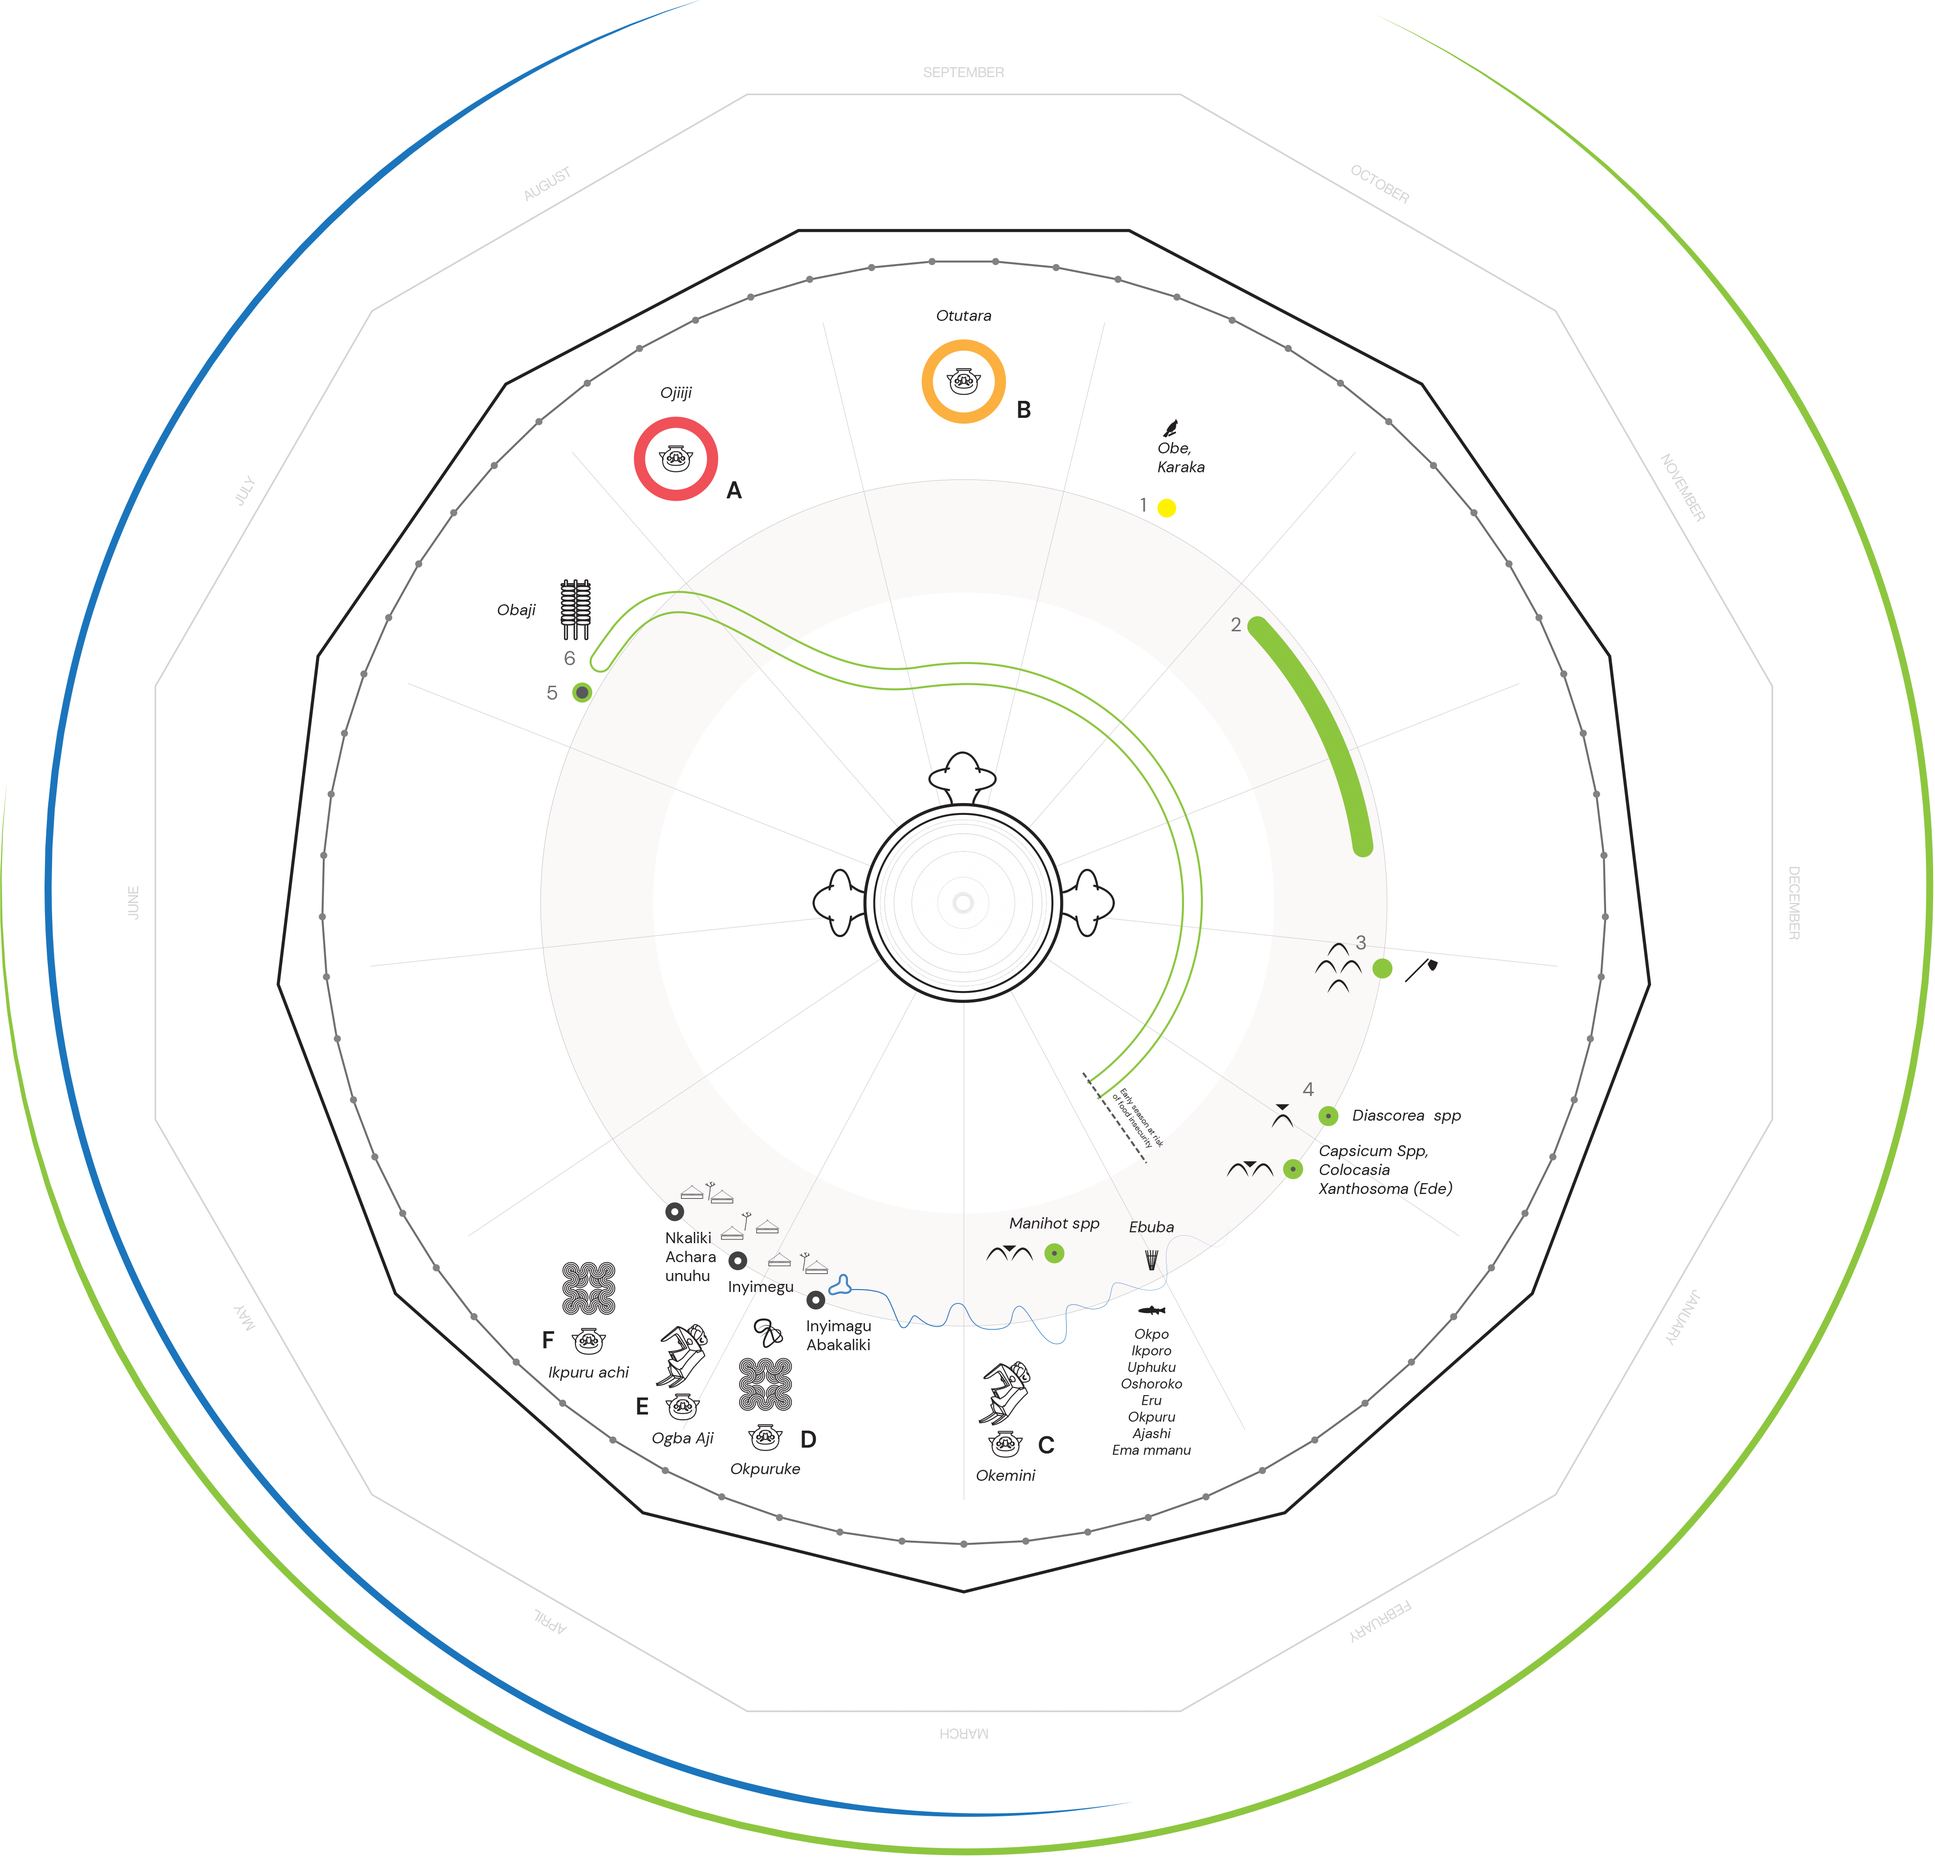
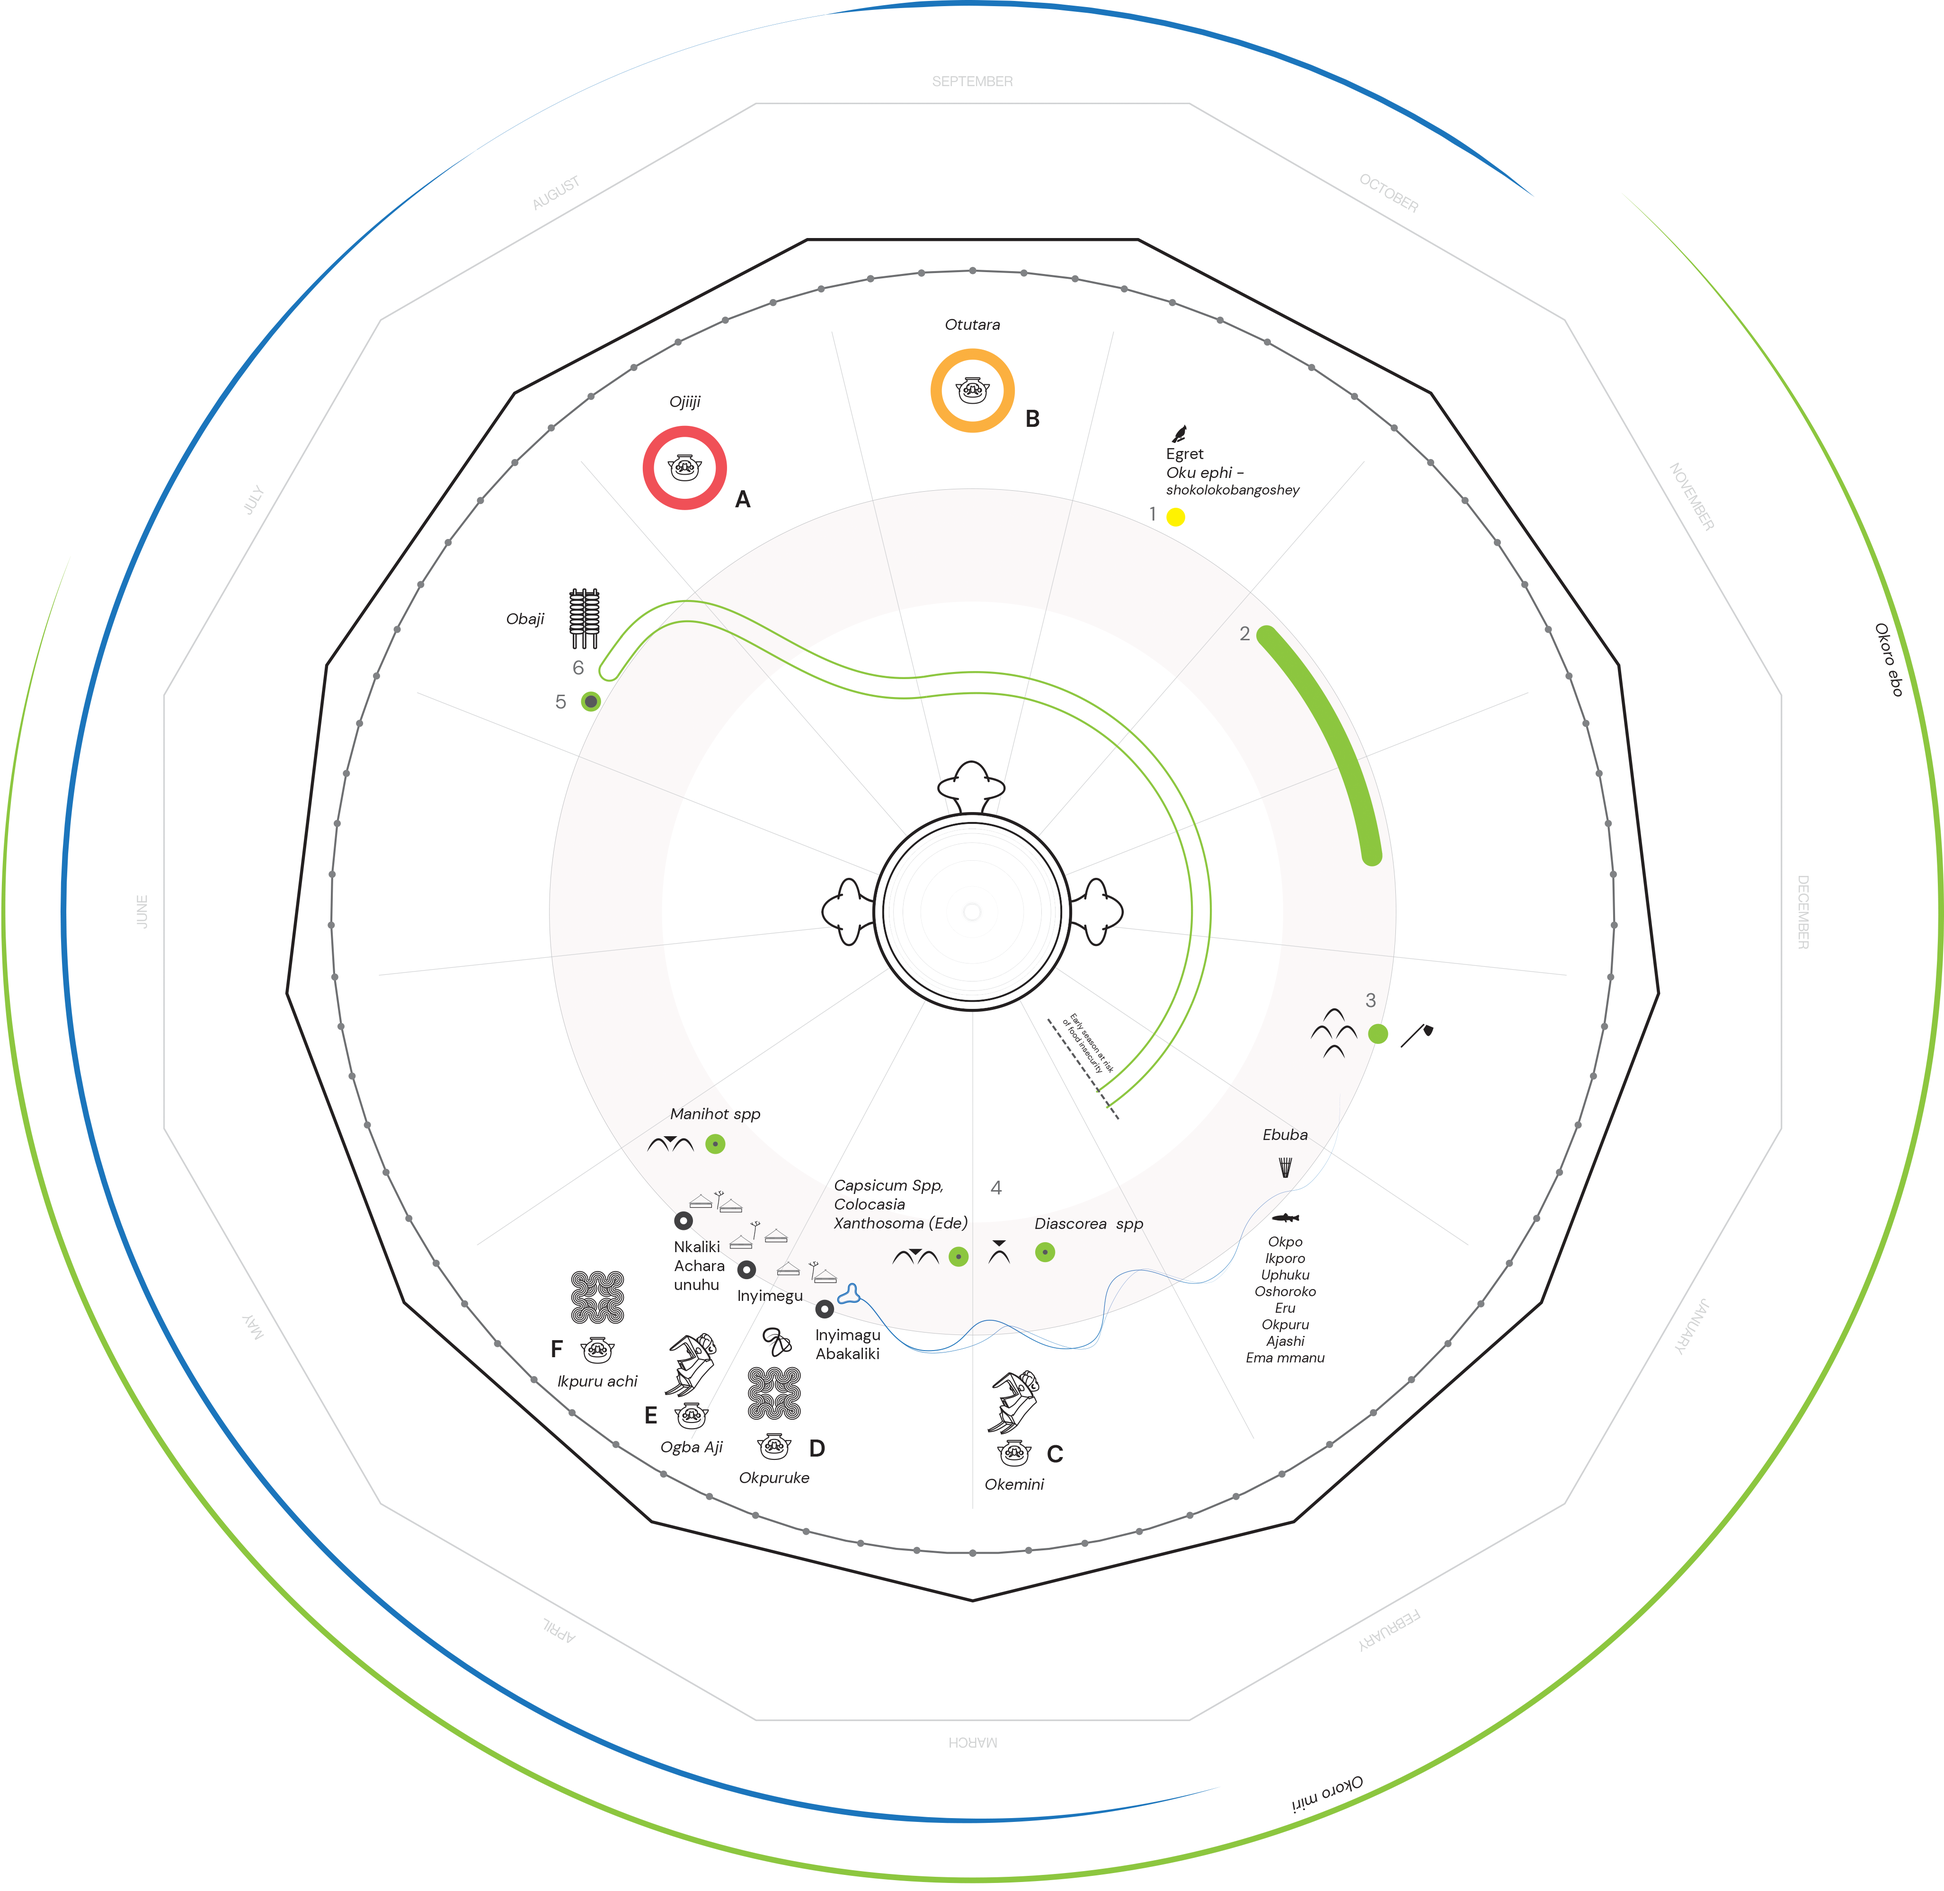
Update external contribution calendar + SEO

diff --git a/src/pages/Otutara.js b/src/pages/Otutara.js
@@ -24,7 +24,7 @@ class Otutara extends Component {
         super(props);
         this.state = {
             value: {
-                scale: .15,
+                scale: .25,
                 translation: { x: 100, y: 50 }
             }
         };
@@ -53,7 +53,7 @@ class Otutara extends Component {
                                     <b>LEGEND</b>
                                 </AccordionSummary><hr />
                                 <AccordionDetails className="Ojiijicss">
-                                The ceremony of the Otutara festival is used to invoke the blessings of the ancestors and parents of the living members of the family.<br /><br /><br />
+                                The ceremony of the Otutara festival is used to invoke the blessings of the ancestors and parents of the living members of the family. Otutara is done twice in year.<br />The first one called the lesser Otutara is done between March and April and it is known as the <i>utara onanwu</i>. It is more of an immediate family affair.<br />The main Otutara is done in September and is mainly a two day event. The feeding and slaughter of animals to feed late father and mother and ancestors is done on the first day while the second day is more of festival and merriment where masquerades are displayed, cooking competition and recognition of best cook.<br /><br /><br />
                                     1. Otuara is celebrated on <i>Nkwegu</i> market day (4th day of the week), after the new moon is sighted.<br />The eldest member of the family conducts the rites and prayers on behalf of the entire members of the family. A special soup made of from <i>akparata</i> seed is prepared with meat and fish.<br /><hr /><br />
                                     2. The day after Otutara, <i>Ohoke</i> market day (5th day of the week), is the <i>Okpo</i> day, when village is cleaned and wizards, witches and witchcrafts are drived away<br /><br />
                                 </AccordionDetails>
